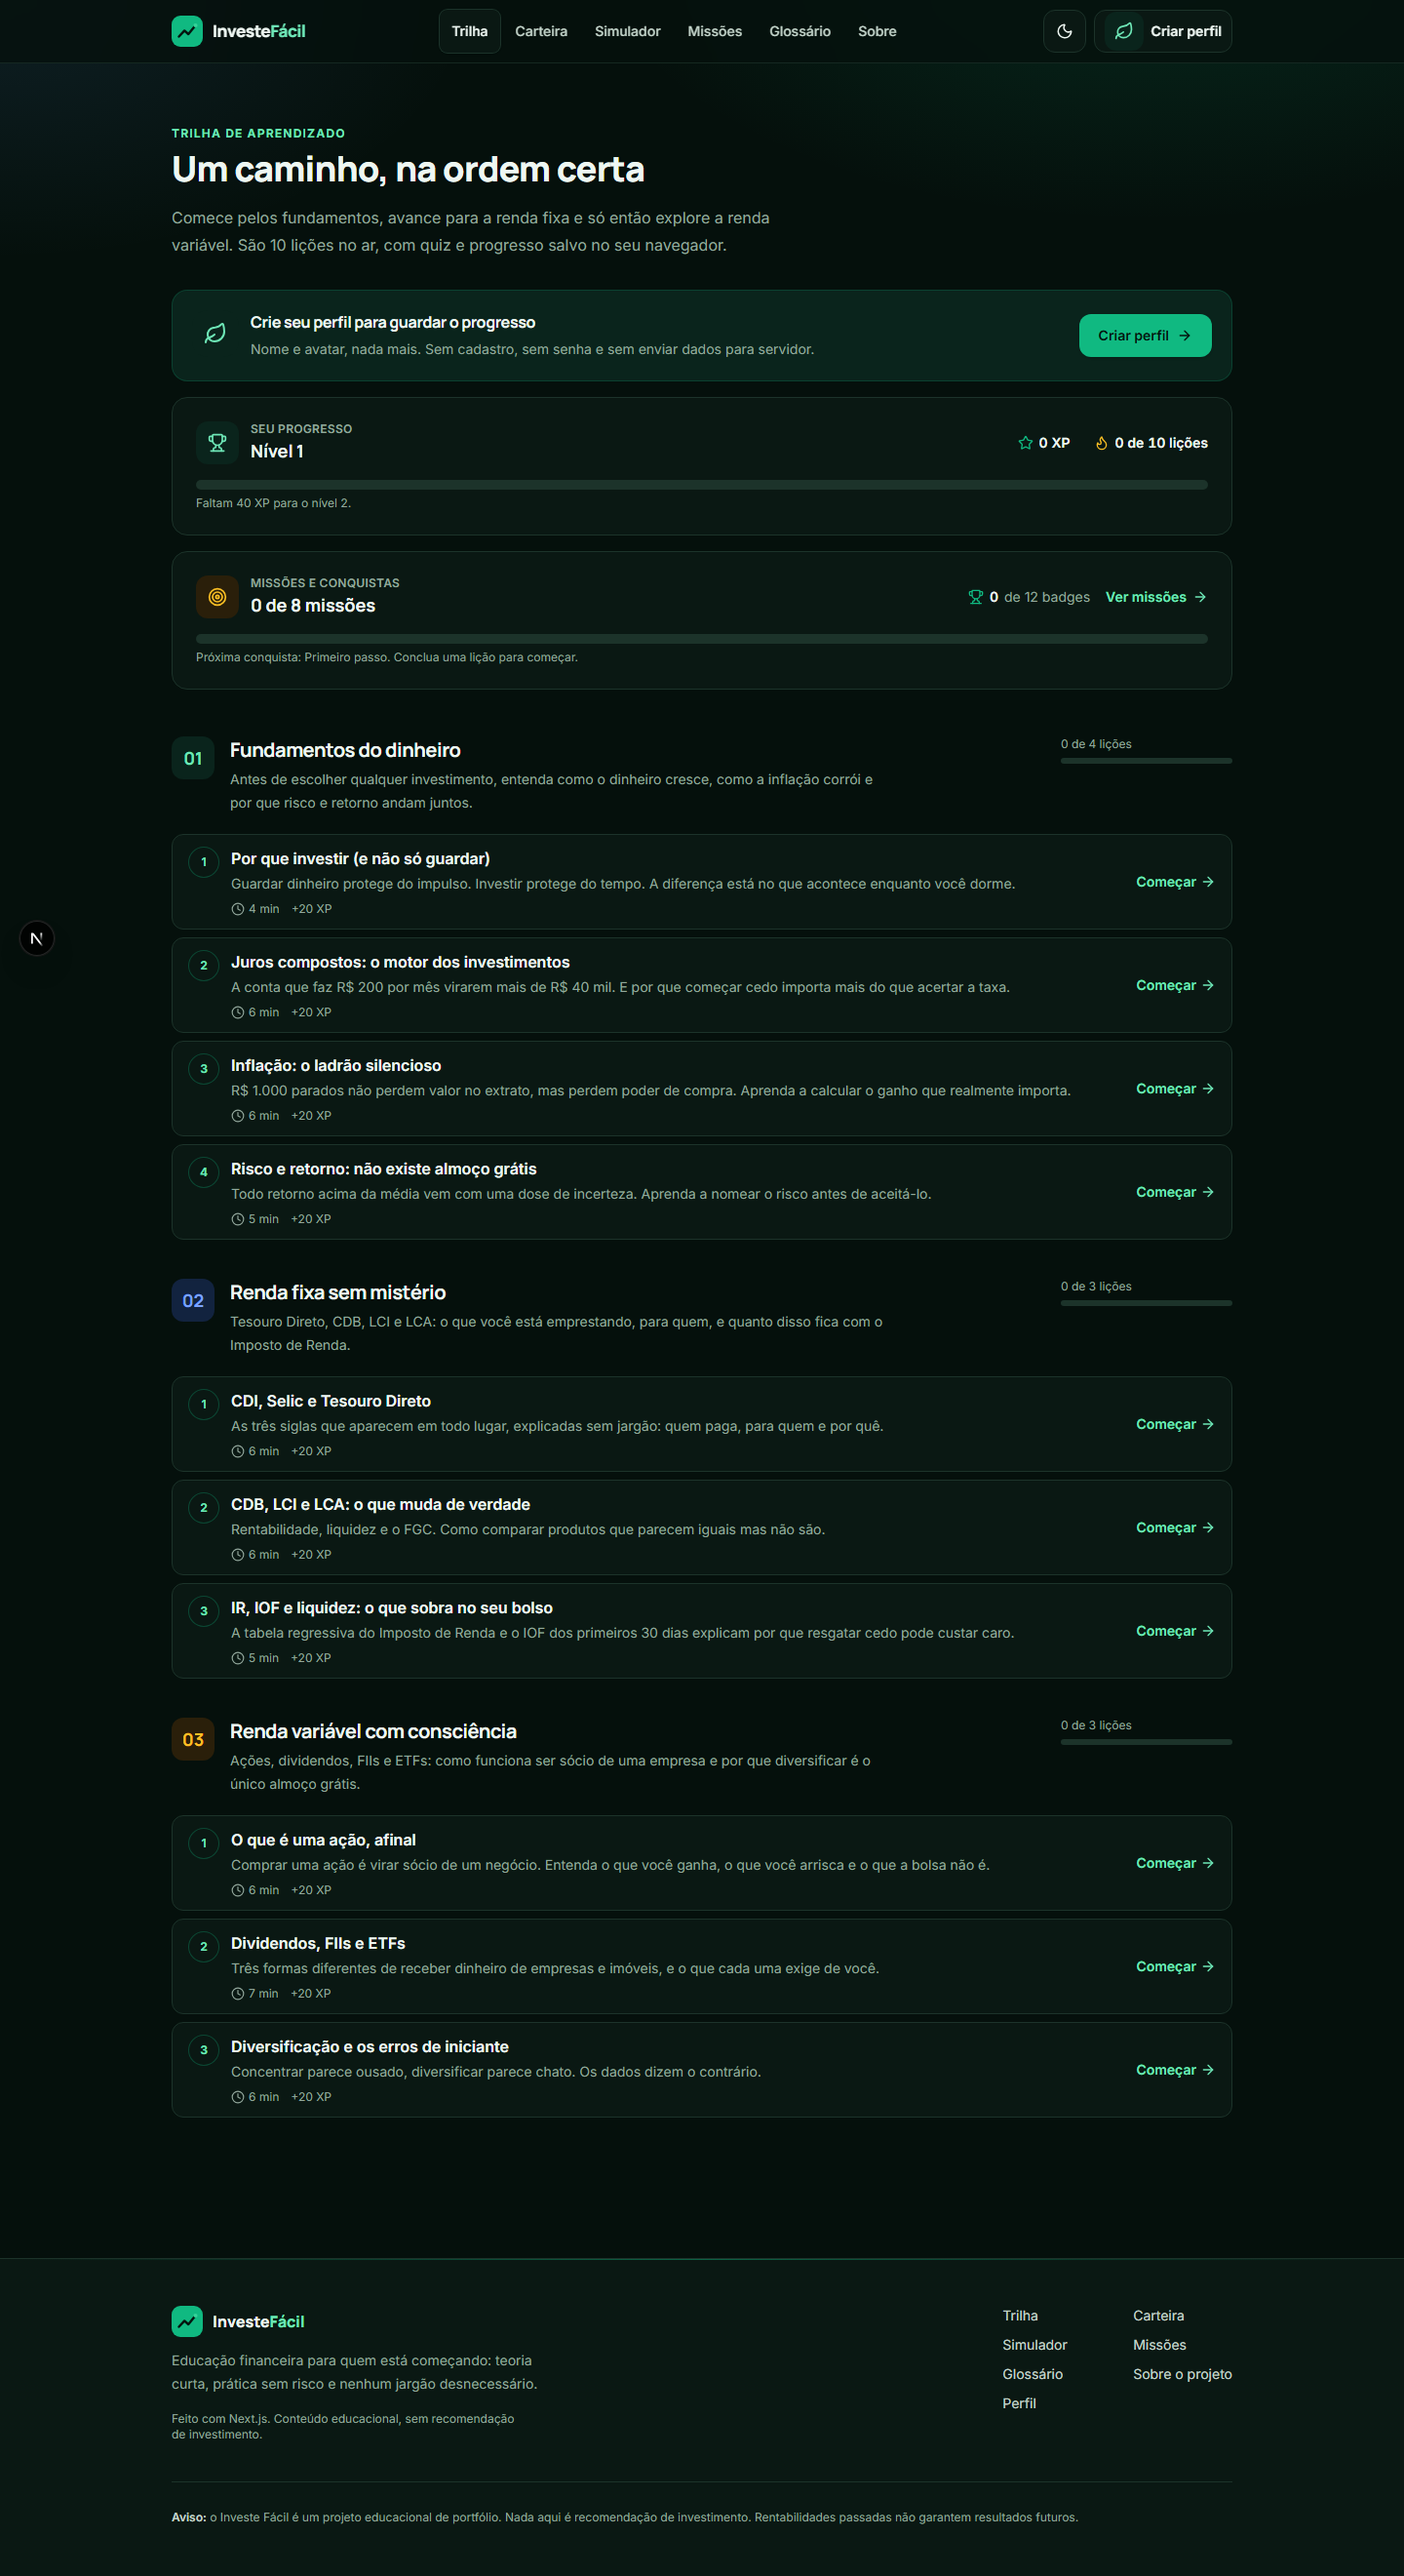
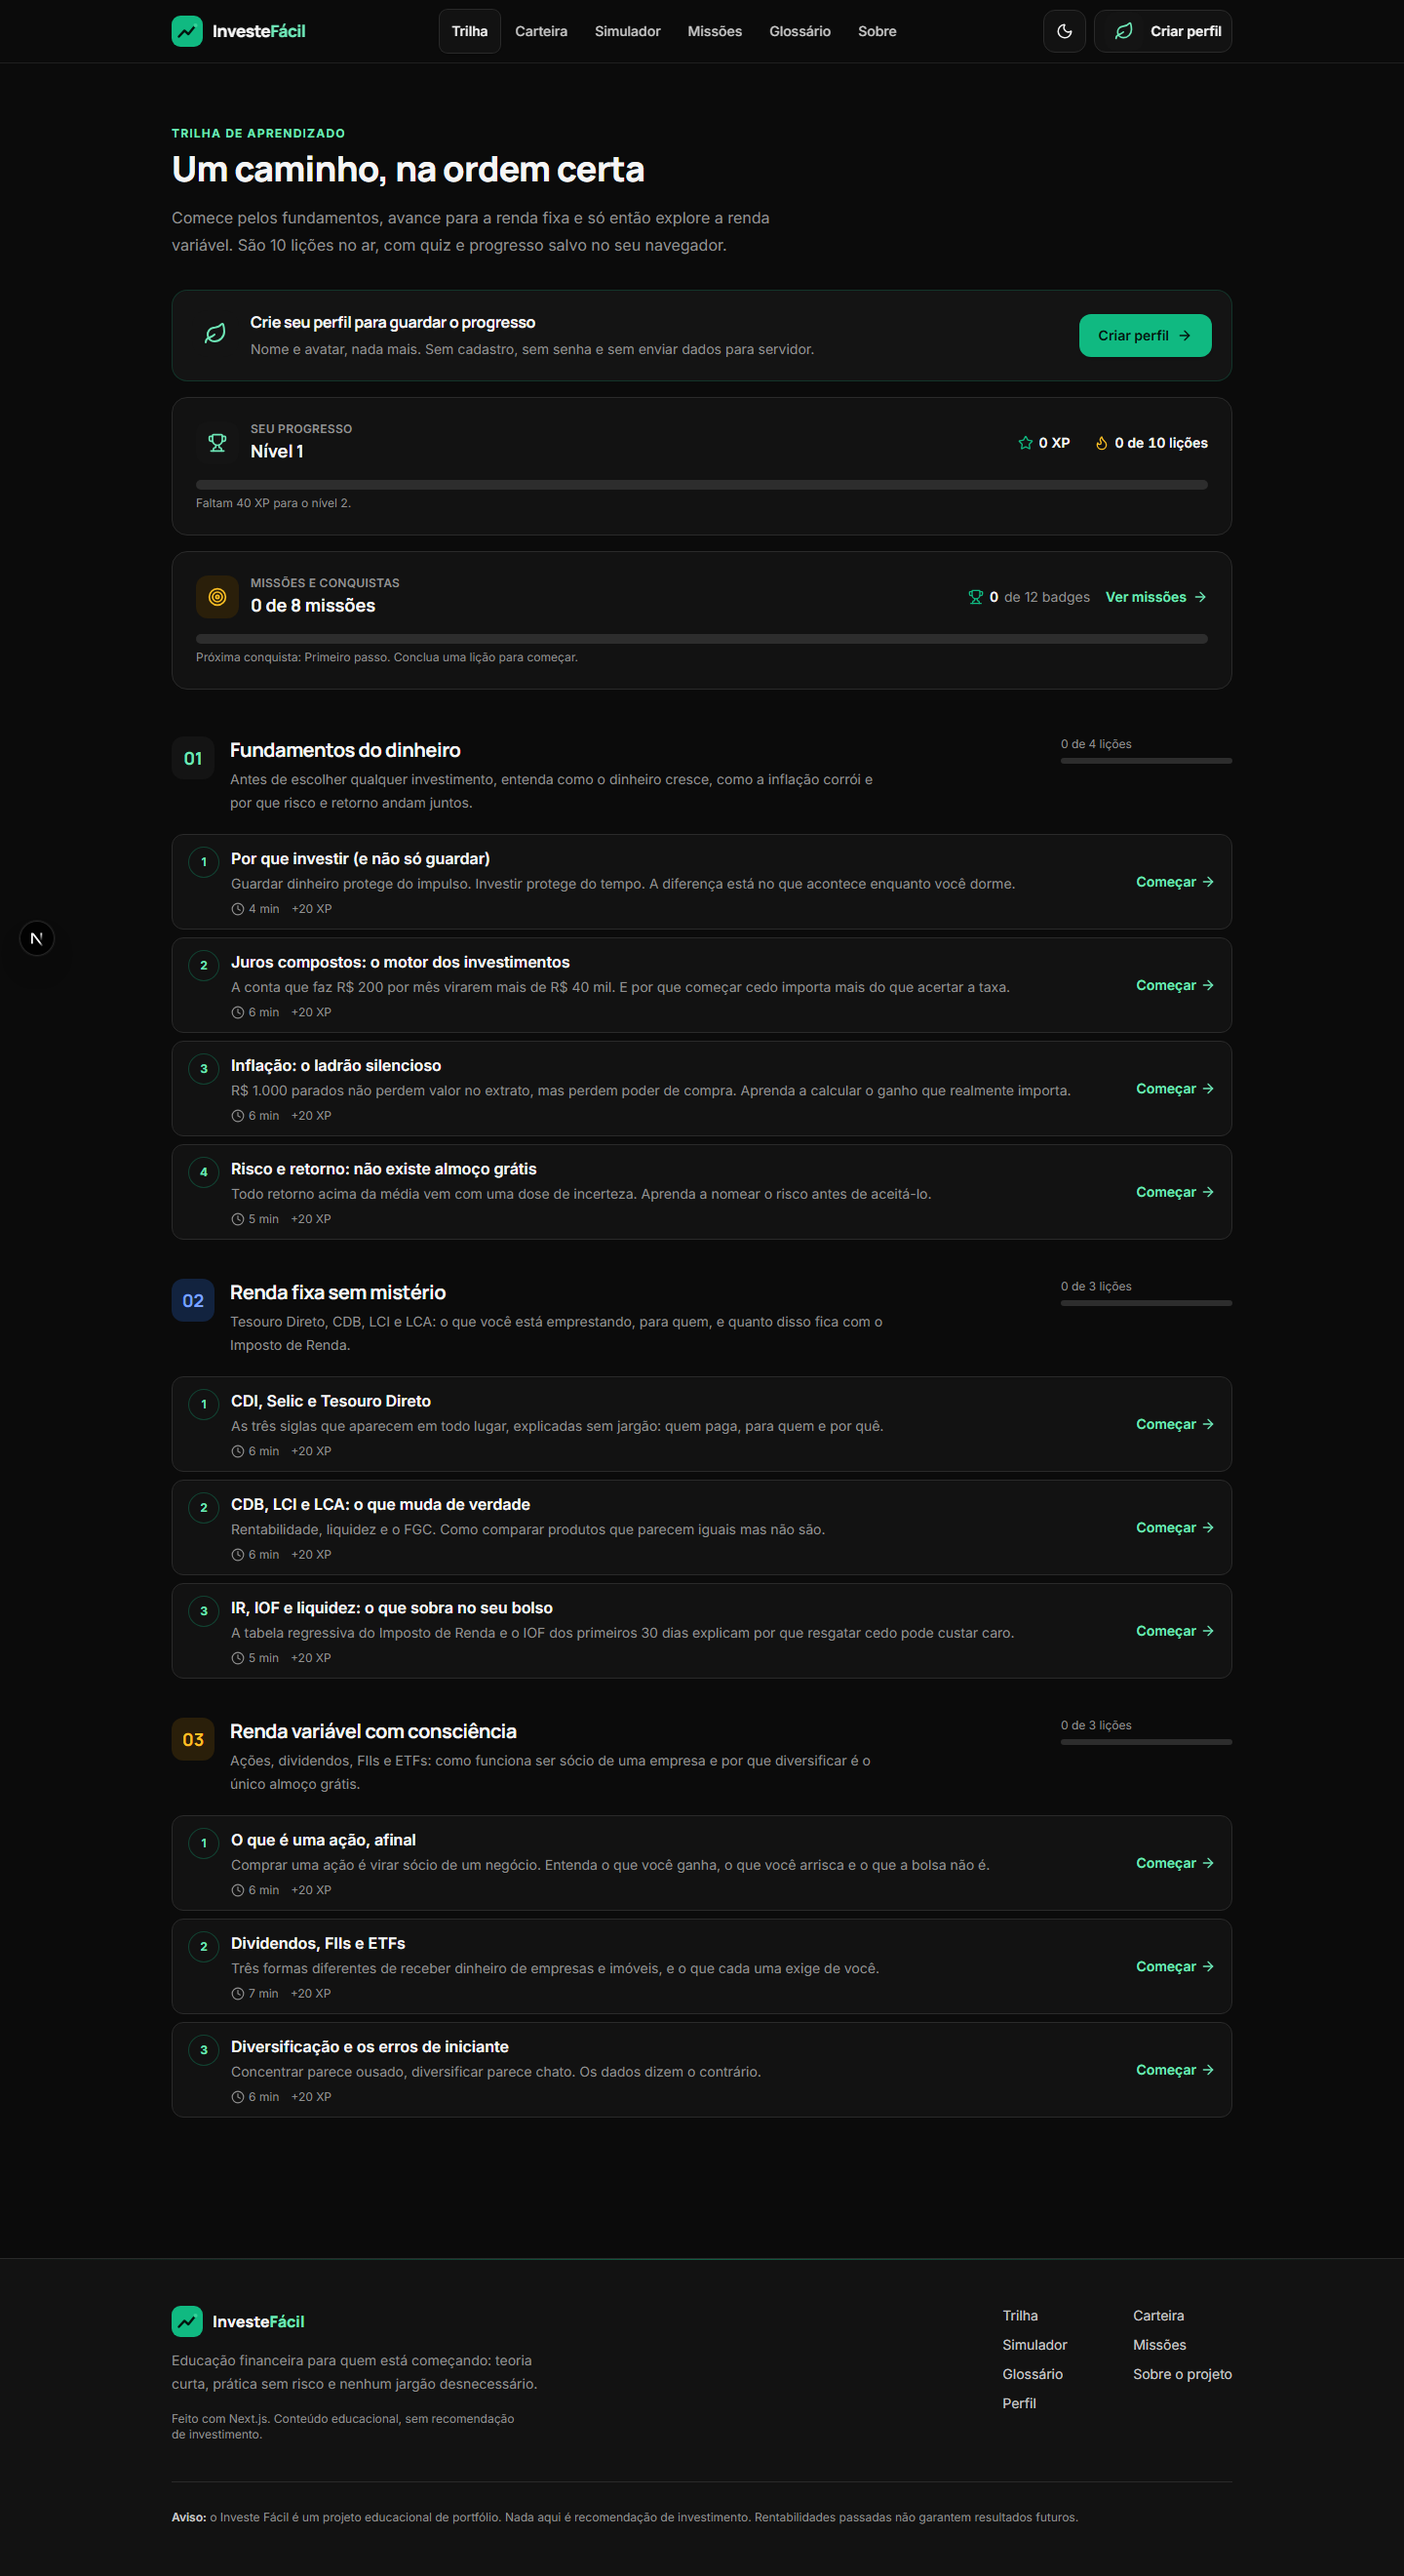
docs: atualiza readme, design system e capturas do tema escuro

diff --git a/docs/design-system.md b/docs/design-system.md
@@ -3,9 +3,9 @@
 Referência interna de cores, temas, tipografia e componentes do Investe Fácil. Não existe rota
 pública: esta documentação existe para manter consistência quando o produto crescer.
 
-A direção visual é **fintech premium escuro**: verde profundo para ação, azul para dados,
-gradientes radiais discretos, sombras em camadas e hover com leve elevação. O mesmo sistema
-funciona nos temas claro e escuro.
+A direção visual é **fintech premium**: verde profundo para ação, azul para dados, sombras em
+camadas e hover com leve elevação. O tema claro tem fundo esverdeado e gradientes radiais
+discretos; o escuro é preto com superfícies em cinza neutro, sem halos coloridos.
 
 ## Onde os tokens vivem
 
@@ -22,8 +22,8 @@ Tailwind CSS 4, então trocar um valor em `:root`/`.dark` propaga para o site in
 }
 
 .dark {
-  --canvas: #05100c;
-  --surface: #0a1813;
+  --canvas: #0b0b0b;
+  --surface: #121212;
   --primary: #10b981;
   --on-primary: #04150f;
 }
@@ -64,15 +64,15 @@ Ao criar uma tela nova, não duplique lógica de tema: use os tokens semânticos
 
 | Token           | Claro      | Escuro     | Uso                                       |
 | --------------- | ---------- | ---------- | ----------------------------------------- |
-| `canvas`        | `#f5faf7`  | `#05100c`  | Fundo da página                           |
-| `surface`       | `#ffffff`  | `#0a1813`  | Fundo de cards e do cabeçalho             |
-| `surface-2`     | `#edf4f0`  | `#0f221b`  | Fundo secundário, chips e blocos internos |
-| `surface-3`     | `#e2ece6`  | `#142a22`  | Terceiro nível de superfície              |
-| `ink`           | `#08130f`  | `#eef7f2`  | Texto principal e títulos                 |
-| `body`          | `#33453c`  | `#c3d4ca`  | Texto corrido                             |
-| `muted`         | `#5c6f64`  | `#92a79c`  | Texto secundário e legendas               |
-| `line`          | `#dde8e1`  | `#1c332a`  | Bordas e divisores                        |
-| `line-strong`   | `#c6d8ce`  | `#2a4a3d`  | Bordas de destaque e trilhos              |
+| `canvas`        | `#f5faf7`  | `#0b0b0b`  | Fundo da página                           |
+| `surface`       | `#ffffff`  | `#121212`  | Fundo de cards e do cabeçalho             |
+| `surface-2`     | `#edf4f0`  | `#181818`  | Fundo secundário, chips e blocos internos |
+| `surface-3`     | `#e2ece6`  | `#202020`  | Terceiro nível de superfície              |
+| `ink`           | `#08130f`  | `#f5f5f5`  | Texto principal e títulos                 |
+| `body`          | `#33453c`  | `#c8c8c8`  | Texto corrido                             |
+| `muted`         | `#5c6f64`  | `#909090`  | Texto secundário e legendas               |
+| `line`          | `#dde8e1`  | `#2a2a2a`  | Bordas e divisores                        |
+| `line-strong`   | `#c6d8ce`  | `#3a3a3a`  | Bordas de destaque e trilhos              |
 | `primary`       | `#0f6b4f`  | `#10b981`  | Ação primária, links, séries de gráfico   |
 | `primary-hover` | `#0b5740`  | `#34d399`  | Hover da ação primária                    |
 | `on-primary`    | `#ffffff`  | `#04150f`  | Texto sobre `primary`                     |
@@ -90,14 +90,16 @@ Ao criar uma tela nova, não duplique lógica de tema: use os tokens semânticos
 | `on-danger`     | `#ffffff`  | `#2a0b0b`  | Texto sobre `danger`                      |
 | `cta-from/to`   | verde      | verde      | Gradiente do bloco de chamada final       |
 | `cta-ink/muted` | branco     | claro      | Texto e apoio dentro do CTA               |
-| `track`         | `#e2e8f0`  | `#1c332a`  | Trilhos de progresso e sliders            |
+| `track`         | `#e2e8f0`  | `#2d2d2d`  | Trilhos de progresso e sliders            |
 | `chart-1..6`    | verde/azul | verde/azul | Séries de gráficos, adaptadas ao tema     |
 | `chart-muted`   | `#94a3b8`  | `#64748b`  | Série de referência apagada               |
 | `card-shadow`   | sombra 2D  | sombra 3D  | Sombra padrão de card (`shadow-card`)     |
 
-A escala `brand-50..950` também muda de valor no tema escuro: no claro ela é verde-clara, no
-escuro ela inverte para tons profundos. Isso mantém `bg-brand-50`, `text-brand-700` e
-`border-brand-600` legíveis nos dois temas sem `dark:` espalhado.
+A escala `brand-50..950` também muda de valor no tema escuro. No claro ela é verde-clara; no
+escuro, `brand-50..300` viram cinzas neutros (`#141414` a `#3f3f3f`) para os fundos suaves lerem
+como preto elevado, e `brand-400..950` ficam nos verdes claros usados em texto, ícones e bordas.
+Isso mantém `bg-brand-50`, `text-brand-700` e `border-brand-600` legíveis nos dois temas sem
+`dark:` espalhado.
 
 ### Séries de gráfico
 
@@ -133,9 +135,10 @@ Números financeiros usam `tabular-nums`.
 | Pílulas         | 999px | `rounded-full` |
 
 - Sombra padrão de card: `shadow-card` (`--card-shadow`); no hover use `shadow-card-hover`.
-- Classes utilitárias próprias: `.hero-glow` (brilho radial do topo), `.text-gradient`
-  (gradiente verde→azul em texto), `.ring-glow` (borda com brilho suave), `.animate-fade-up`,
-  `.reveal` e `.skeleton` (ver seção de animações).
+  No escuro a sombra é preta pura e a elevação vem do contraste entre `canvas` e `surface`.
+- Classes utilitárias próprias: `.hero-glow` (brilho radial do topo, desligado no tema escuro),
+  `.text-gradient` (gradiente verde→azul em texto), `.ring-glow` (borda com brilho suave),
+  `.animate-fade-up`, `.reveal` e `.skeleton` (ver seção de animações).
 - Container: `max-w-6xl` com `px-5 sm:px-6 lg:px-8`
 - Ritmo vertical entre seções: `py-16` a `py-24`
 - Conteúdo de lição: `max-w-3xl` para manter a linha entre 60 e 75 caracteres

diff --git a/README.md b/README.md
@@ -5,8 +5,8 @@
 Educação financeira para quem está começando: lições curtas, simuladores interativos e
 progresso gamificado, sem cadastro, sem backend e sem dinheiro em risco.
 
-Tema claro e escuro em todo o site, com visual de fintech premium, escolha manual de tema e
-animações de entrada discretas.
+Tema claro e escuro em todo o site: o escuro usa preto e cinza neutros, com o verde restrito a
+acentos. Escolha manual de tema e animações de entrada discretas.
 
 | Claro                                                 | Escuro                                                      |
 | ----------------------------------------------------- | ----------------------------------------------------------- |
@@ -49,7 +49,8 @@ dados pessoais.
   trilha, as missões ou todo o progresso, sempre com confirmação
 - **Backup em JSON** com todos os perfis e o progresso para exportar e importar entre dispositivos
 - **Tema claro, escuro e sistema** em todo o site, com escolha manual salva no navegador e
-  preferência inicial do sistema operacional
+  preferência inicial do sistema operacional. O escuro é preto com elevação em cinza neutro, sem
+  halos coloridos; o verde fica só nos acentos
 - **Animações discretas**: entrada do hero, reveal ao rolar e skeletons com shimmer, em CSS puro,
   sem biblioteca e com fallback para quem navega sem JavaScript
 - **Acessibilidade**: navegação por teclado, contraste AA nos dois temas, gráficos com descrição
@@ -147,7 +148,9 @@ série muda de tom junto com o tema.
 **Tema sem flash e sem dependência.** `lib/theme.ts` guarda a escolha em `localStorage`, e um
 script inline no layout aplica a classe `.dark` antes da pintura. Os tokens semânticos em
 `app/globals.css` trocam de valor entre `:root` e `.dark`, então a maior parte dos componentes não
-precisa de nenhuma classe `dark:`.
+precisa de nenhuma classe `dark:`. No escuro, o fundo é preto com superfícies em cinza neutro e
+sombras pretas; o brilho radial do fundo e do hero é desligado, e o verde aparece apenas em
+acentos, ícones e gráficos.
 
 **Animação em CSS, não em biblioteca.** O hero usa `@keyframes` (`fade-up`), as seções abaixo da
 dobra usam um `Reveal` com `IntersectionObserver` e os placeholders de hidratação usam
